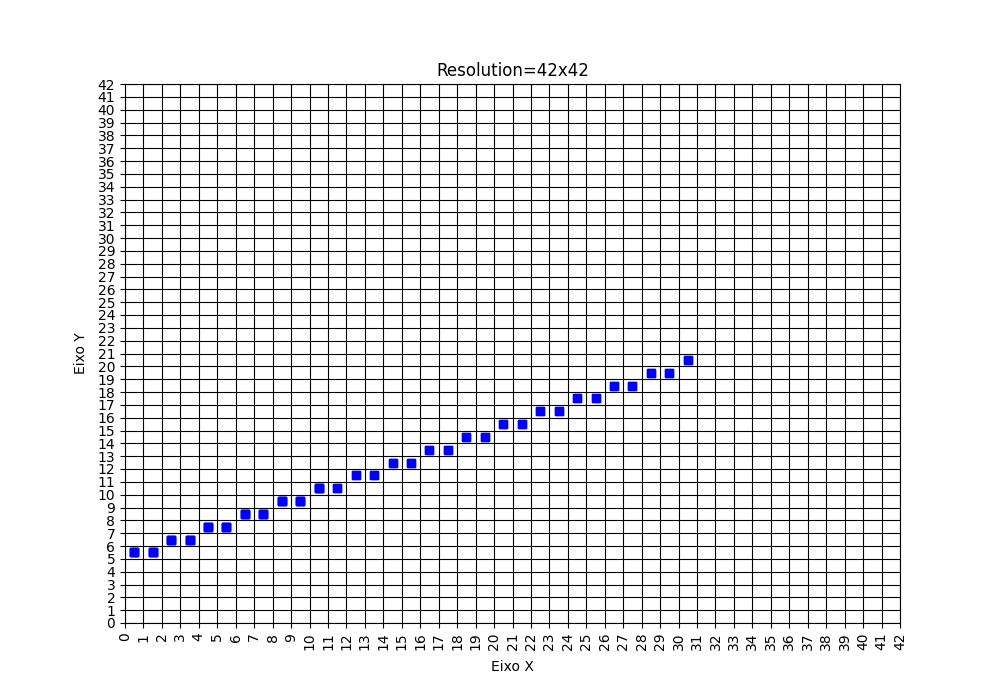
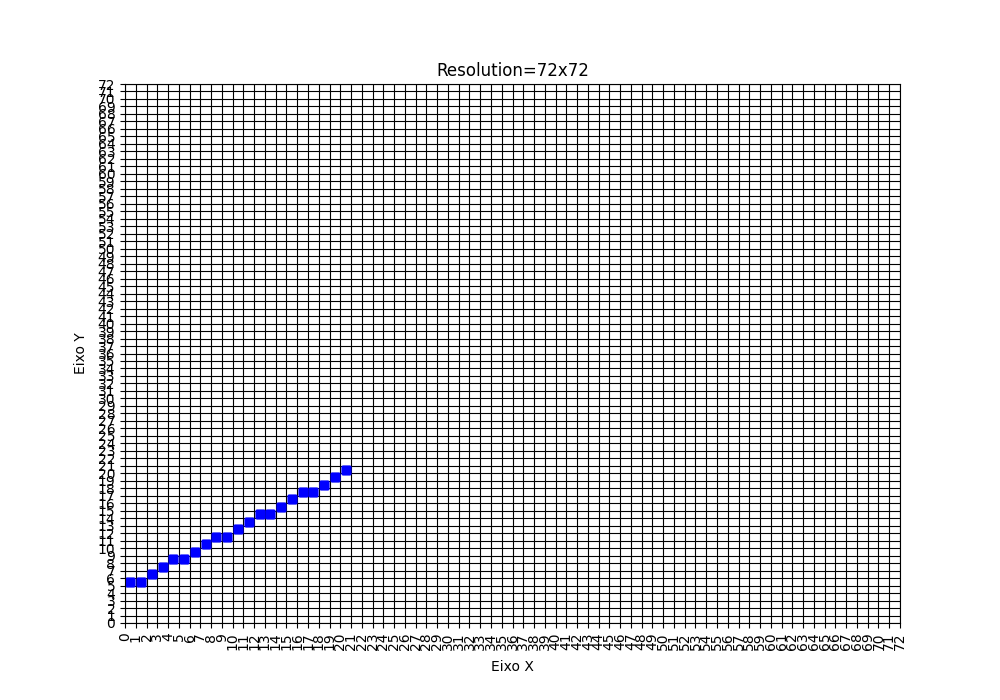
New Rasterization Algorithm

Changed region(s): [[0.093, 0.09, 0.899, 0.93]]

diff --git a/src/utils/rasterizacao.py b/src/utils/rasterizacao.py
@@ -1,5 +1,5 @@
 # -*- coding: utf-8 -*-
-import turtle as tt
+# import turtle as tt
 from PyQt5.QtCore import QObject, pyqtSlot, QVariant
 import matplotlib as mpl
 from numpy import array
@@ -43,32 +43,6 @@ class Rasterizacao(QObject):
 		self.pointsOnX.append(xm + 0.5)
 		self.pointsOnY.append(ym + 0.5)
 
-	def getYByX(self, originalPoints, coeficientResolution):
-		X1 = originalPoints[0][0]
-		Y1 = originalPoints[0][1]
-		X2 = originalPoints[1][0]
-		Y2 = originalPoints[1][1]
-		if(X2 - X1 != 0):
-			deltaX = (X2 - X1)
-		else:
-			deltaX = 0
-		
-		if(Y2 - Y1 != 0):
-			deltaY = (Y2 - Y1)
-		else:
-			deltaY = 0
-		
-		if deltaX == 0:
-			M = 0
-		else:
-			M = deltaY/deltaX
-		B = Y1 - M * X1
-
-		newXValue = X2 * coeficientResolution
-		newYValue = M * newXValue + B
-
-		return int(newYValue)
-
 	def doRasterization(self, pointsArray):
 		resizeCoeficientsArray = [1, 3, 6]
 		figure = plt.figure(figsize=(10, 7))
@@ -86,43 +60,9 @@ class Rasterizacao(QObject):
 				try:
 					X2 = pointsArray[i+1][0]
 					Y2 = pointsArray[i+1][1]
-					if X2 < X1:
-						# MANIPULACAO DO X
-						X = X2
-						X2 = X1
-						X1 = X
-						# MANIPULACAO DO Y
-						Y = Y2
-						Y2 = Y1
-						Y1 = Y
-					# MULTIPLICA PELO COEFICIENTE DE RESOLUCAO
-					Y2 = self.getYByX([
-						[X1, Y1],
-						[X2, Y2]
-					], coeficientResolution)
-					X2 = X2*coeficientResolution
-					# Y2*coeficientResolution
 				except IndexError:
 					X2 = pointsArray[0][0]
 					Y2 = pointsArray[0][1]
-					if X2 < X1:
-						# MANIPULACAO DO X
-						X = X2
-						X2 = X1
-						X1 = X
-						# MANIPULACAO DO Y
-						Y = Y2
-						Y2 = Y1
-						Y1 = Y
-					# MULTIPLICA PELO COEFICIENTE DE RESOLUCAO
-					Y2 = self.getYByX([
-						[X1, Y1],
-						[X2, Y2]
-					], coeficientResolution)
-					X2 = X2*coeficientResolution
-				
-				print(X, Y)
-				print(X1, Y1, X2, Y2)
 
 				if (X2 - X1 != 0):
 					deltaX = (X2 - X1)
@@ -145,10 +85,16 @@ class Rasterizacao(QObject):
 				
 				self.createPointsFragments(X,Y)
 				if(abs(deltaX) > abs(deltaY)):
-					while(X < X2):
-						X=X+1
-						Y=M*X + B
-						self.createPointsFragments(X,Y)
+					if (X < X2):
+						while(X < X2):
+							X = X+1
+							Y=M*X + B
+							self.createPointsFragments(X,Y)
+					else:
+						while(X > X2):
+							X=X-1
+							Y=M*X + B
+							self.createPointsFragments(X,Y)
 				else:
 					if (Y < Y2):
 						while(Y < Y2):
@@ -193,3 +139,60 @@ class Rasterizacao(QObject):
 		self.originalResolution = graphResolution
 		self.graphResolution = graphResolution
 		self.doRasterization(pointsArray)
+
+	@pyqtSlot(QVariant, QVariant, QVariant, QVariant, QVariant, QVariant, QVariant, QVariant, QVariant, QVariant, QVariant, QVariant, QVariant)
+	def treatPolygonsCoordinates(self, polygonType, x1, y1, x2, y2, x3, y3, x4 = None, y4 = None, x5 = None, y5 = None, x6 = None, y6 = None):
+		if (polygonType == 'TE' ):
+			pointsArray = [
+				[x1, y1],
+				[x2, y2],
+				[x3, y3]
+			]
+			self.graphsFileNames = [
+				'triangleGraph1.png',
+				'triangleGraph2.png',
+				'triangleGraph3.png',
+			]
+		elif (polygonType == 'R'):
+			pointsArray = [
+				[x1, y1],
+				[x2, y2],
+				[x3, y3],
+				[x4, y4],
+			]
+			self.graphsFileNames = [
+				'rectangleGraph1.png',
+				'rectangleGraph2.png',
+				'rectangleGraph3.png',
+			]
+		elif (polygonType == 'H'):
+			pointsArray = [
+				[x1, y1],
+				[x2, y2],
+				[x3, y3],
+				[x4, y4],
+				[x5, y5],
+				[x6, y6]
+			]
+			self.graphsFileNames = [
+				'hexagonGraph1.png',
+				'hexagonGraph2.png',
+				'hexagonGraph3.png',
+			]
+		else:
+			return 0
+
+		graphResolution = self.getGraphResolutions(pointsArray)
+		self.originalResolution = graphResolution
+		self.graphResolution = graphResolution
+		# self.doRasterization(pointsArray)
+		# print(x1)
+		# x1 = int(x1) 
+		# y1 = int(y1)
+		# x2 = int(x2)
+		# y2 = int(y2)
+
+		# graphResolution = self.getGraphResolutions(pointsArray)
+		# self.originalResolution = graphResolution
+		# self.graphResolution = graphResolution
+		# self.doRasterization(pointsArray)
